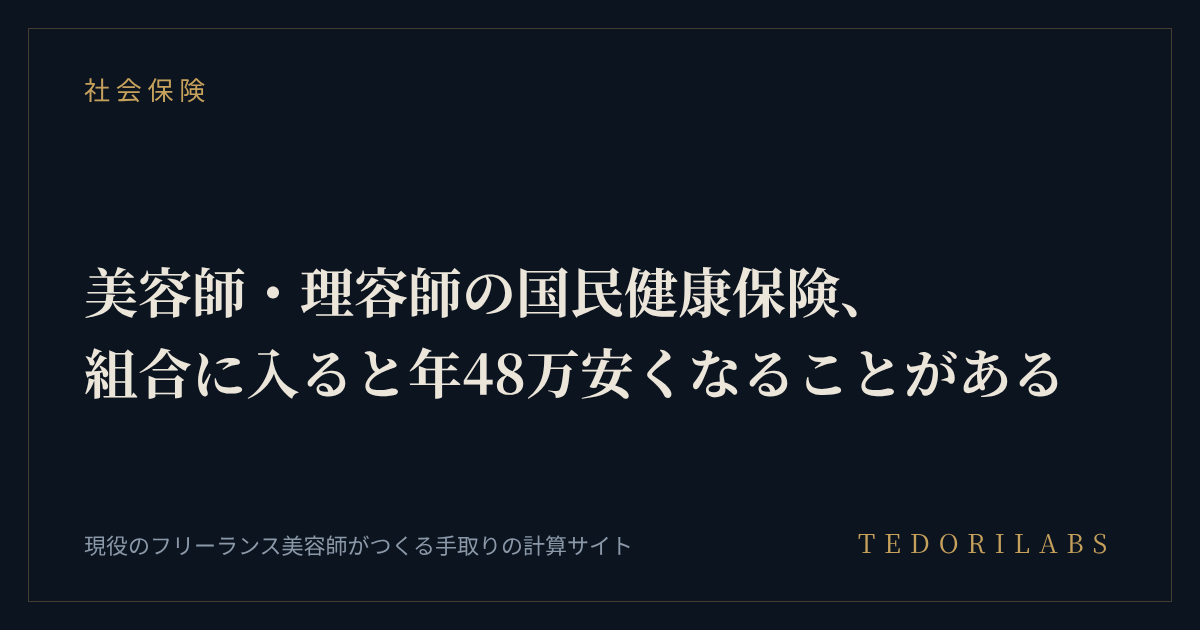
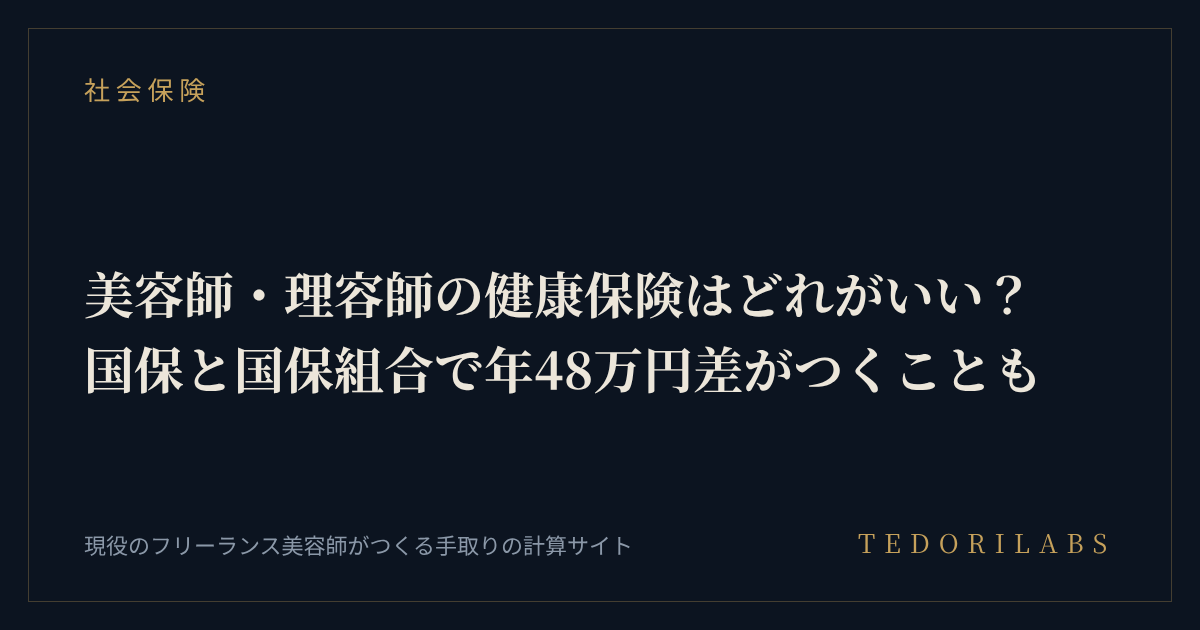
国保組合の記事のタイトル・説明文を検索語に合わせて改善、売上1,000万円の記事への内部リンクを追加
Claude-Session: https://claude.ai/code/session_01SrkxJxNn9hhaydakdwRiaq

Changed region(s): [[0.0617, 0.5429, 0.8942, 0.6333], [0.0617, 0.4222, 0.8633, 0.5127]]

diff --git a/articles/kokuho-kumiai.html b/articles/kokuho-kumiai.html
@@ -3,18 +3,18 @@
 <head>
 <meta charset="UTF-8">
 <meta name="viewport" content="width=device-width, initial-scale=1">
-<title>美容師・理容師の国民健康保険、組合に入ると年48万安くなることがある｜tedorilabs</title>
-<meta name="description" content="市町村の国民健康保険は所得に連動、美容・理容の国保組合は定額。所得別の比較表で、どちらが有利かを整理しました。理容国保の保険料と、面貸し・業務委託だと加入できない組合があることも解説します。">
+<title>美容師・理容師の健康保険はどれがいい？国保と国保組合で年48万円差がつくことも｜tedorilabs</title>
+<meta name="description" content="業務委託・フリーランスの美容師・理容師の健康保険は、市町村の国保と美容・理容の国保組合のどちらがいいか。国保は所得に連動、国保組合は定額で、所得が高いと年48万円差がつくことも。所得別の比較表、理容国保の保険料、面貸し・業務委託だと加入できない組合があることまでまとめました。">
 <link rel="canonical" href="https://tedorilabs.com/articles/kokuho-kumiai">
-<meta property="og:title" content="美容師・理容師の国民健康保険、組合に入ると年48万安くなることがある">
-<meta property="og:description" content="市町村の国保は所得連動、国保組合は定額。所得別の比較表で、どちらが有利かを整理しました。">
+<meta property="og:title" content="美容師・理容師の健康保険はどれがいい？国保と国保組合で年48万円差がつくことも">
+<meta property="og:description" content="美容師・理容師の健康保険、国保と国保組合どちらが得？所得別の比較表と、面貸し・業務委託の加入の注意点。">
 <meta property="og:type" content="article">
 <meta property="og:url" content="https://tedorilabs.com/articles/kokuho-kumiai">
 <meta property="og:image" content="https://tedorilabs.com/og/kokuho-kumiai.png">
 <meta property="og:site_name" content="tedorilabs">
 <meta name="twitter:card" content="summary_large_image">
 <meta name="twitter:site" content="@tedorilabs">
-<script type="application/ld+json">{"@context": "https://schema.org", "@type": "Article", "headline": "美容師・理容師の国民健康保険、組合に入ると年48万安くなることがある", "description": "市町村の国民健康保険は所得に連動、美容・理容の国保組合は定額。所得別の比較表で、どちらが有利かを整理しました。理容国保の保険料と、面貸し・業務委託だと加入できない組合があることも解説します。", "image": "https://tedorilabs.com/og/kokuho-kumiai.png", "datePublished": "2026-08-17", "dateModified": "2026-11-13", "mainEntityOfPage": "https://tedorilabs.com/articles/kokuho-kumiai", "author": {"@type": "Organization", "name": "tedorilabs", "url": "https://tedorilabs.com/"}, "publisher": {"@type": "Organization", "name": "tedorilabs", "url": "https://tedorilabs.com/"}}</script>
+<script type="application/ld+json">{"@context": "https://schema.org", "@type": "Article", "headline": "美容師・理容師の健康保険はどれがいい？国保と国保組合で年48万円差がつくことも", "description": "業務委託・フリーランスの美容師・理容師の健康保険は、市町村の国保と美容・理容の国保組合のどちらがいいか。国保は所得に連動、国保組合は定額で、所得が高いと年48万円差がつくことも。所得別の比較表、理容国保の保険料、面貸し・業務委託だと加入できない組合があることまでまとめました。", "image": "https://tedorilabs.com/og/kokuho-kumiai.png", "datePublished": "2026-08-17", "dateModified": "2026-11-21", "mainEntityOfPage": "https://tedorilabs.com/articles/kokuho-kumiai", "author": {"@type": "Organization", "name": "tedorilabs", "url": "https://tedorilabs.com/"}, "publisher": {"@type": "Organization", "name": "tedorilabs", "url": "https://tedorilabs.com/"}}</script>
 <link rel="preconnect" href="https://fonts.googleapis.com">
 <link rel="preconnect" href="https://fonts.gstatic.com" crossorigin>
 <link href="https://fonts.googleapis.com/css2?family=Shippori+Mincho+B1:wght@500;700&family=Zen+Kaku+Gothic+New:wght@400;500;700&family=Bodoni+Moda:opsz,wght@6..96,400&display=swap" rel="stylesheet">
@@ -72,7 +72,7 @@ footer{margin-top:70px;padding-top:30px;border-top:1px solid var(--hair);font-si
 
 <header class="hd">
   <p class="kicker">社会保険</p>
-  <h1>美容師・理容師の国民健康保険、<br>組合に入ると年48万安くなることがある</h1>
+  <h1>美容師・理容師の健康保険はどれがいい？<br>国保と国保組合で年48万円差がつくことも</h1>
   <p class="meta">2026年8月　／　フリーランス美容師（面貸し）</p>
 </header>
 

diff --git a/articles/kakutei-ato-zeikin.html b/articles/kakutei-ato-zeikin.html
@@ -160,7 +160,7 @@ table.wrap th,table.wrap td{white-space:normal;vertical-align:top}
 
 <h3>所得税：3月15日まで</h3>
 <p>確定申告と一緒に、3月15日までに納めます。<strong>振替納税</strong>を申し込んでおくと、4月下旬に口座から自動で引き落とされるので、少し余裕ができます。</p>
-<p>前の年の所得税がおおむね15万円以上だった人には、その年の7月と11月に、前もって3分の1ずつ納める<strong>予定納税</strong>の通知も届きます。売上が伸びてきた人は覚えておきましょう。</p>
+<p>前の年の所得税がおおむね15万円以上だった人には、その年の7月と11月に、前もって3分の1ずつ納める<strong>予定納税</strong>の通知も届きます。売上が伸びてきた人は覚えておきましょう。売上が1,000万円を超えると、2年後から消費税の納税も加わります（<a href="./uriage-1000man">売上1,000万円を超えたら考えること</a>）。</p>
 
 <h3>住民税：6月から4回</h3>
 <p>6月ごろに市区町村から納税通知書が届き、多くの自治体では6月・8月・10月・翌年1月の4回に分けて払います。一括で払うこともできます。会社員のように給料から引かれないので、自分で納付書やスマホ決済で払います。</p>

diff --git a/articles/seishain-gyomuitaku.html b/articles/seishain-gyomuitaku.html
@@ -188,6 +188,8 @@ table.wrap th,table.wrap td{white-space:normal;vertical-align:top}
 </ul>
 <p>手取りが増えた分の一部は、こうした保障を自分で用意するためのお金だと考えておいたほうが安心です。老後の資金については、<a href="./kyosai-ideco">小規模企業共済とiDeCoの記事</a>にまとめています。</p>
 
+<p>売上が伸びて年1,000万円を超えてくると、消費税の納税も始まります。その時期と金額の目安は<a href="./uriage-1000man">売上1,000万円を超えたら考えること</a>にまとめています。</p>
+
 <h2>業務委託に移る前に確認したいこと</h2>
 
 <p>手取りが増えるかどうかは、結局は<strong>契約の中身</strong>で決まります。歩合率だけでなく、席代や材料費をどちらが持つか、ノルマや最低出勤日数があるかも、契約前に確認しておきましょう（<a href="./keiyaku-mae-3jouken">業務委託に移る前に聞いておきたい3つのこと</a>）。</p>

diff --git a/index.html b/index.html
@@ -667,7 +667,7 @@ footer{text-align:center;padding:70px 0 0;font-size:11px;letter-spacing:.34em;te
     </a>
     <a class="art" href="./articles/kokuho-kumiai">
       <span class="art-kicker">社会保険</span>
-      <span class="art-title">美容師・理容師の国民健康保険、組合に入ると年48万安くなることがある</span>
+      <span class="art-title">美容師・理容師の健康保険はどれがいい？国保と国保組合で年48万円差がつくことも</span>
       <span class="art-ds">市町村の国保は所得に連動し、美容業の国保組合は定額。事業所得230万円あたりで有利不利が逆転します。所得別の比較表に加えて、理容国保の保険料と、面貸し・業務委託だと加入できない組合があることもまとめました。</span>
     </a>
   </div>

diff --git a/articles/riyoushi-tedori.html b/articles/riyoushi-tedori.html
@@ -196,6 +196,8 @@ table.wrap th,table.wrap td{white-space:normal;vertical-align:top}
 </a>
 <img border="0" width="1" height="1" src="https://www11.a8.net/0.gif?a8mat=4BENDS+8I0UHM+4JGQ+BX3J6" alt="" style="position:absolute;width:1px;height:1px;opacity:0">
 
+<p>売上が大きくなってきたら、消費税の納税が始まる時期にも注意が必要です（<a href="./uriage-1000man">売上1,000万円を超えたら考えること</a>）。</p>
+
 <h2>まとめ</h2>
 
 <ul>
